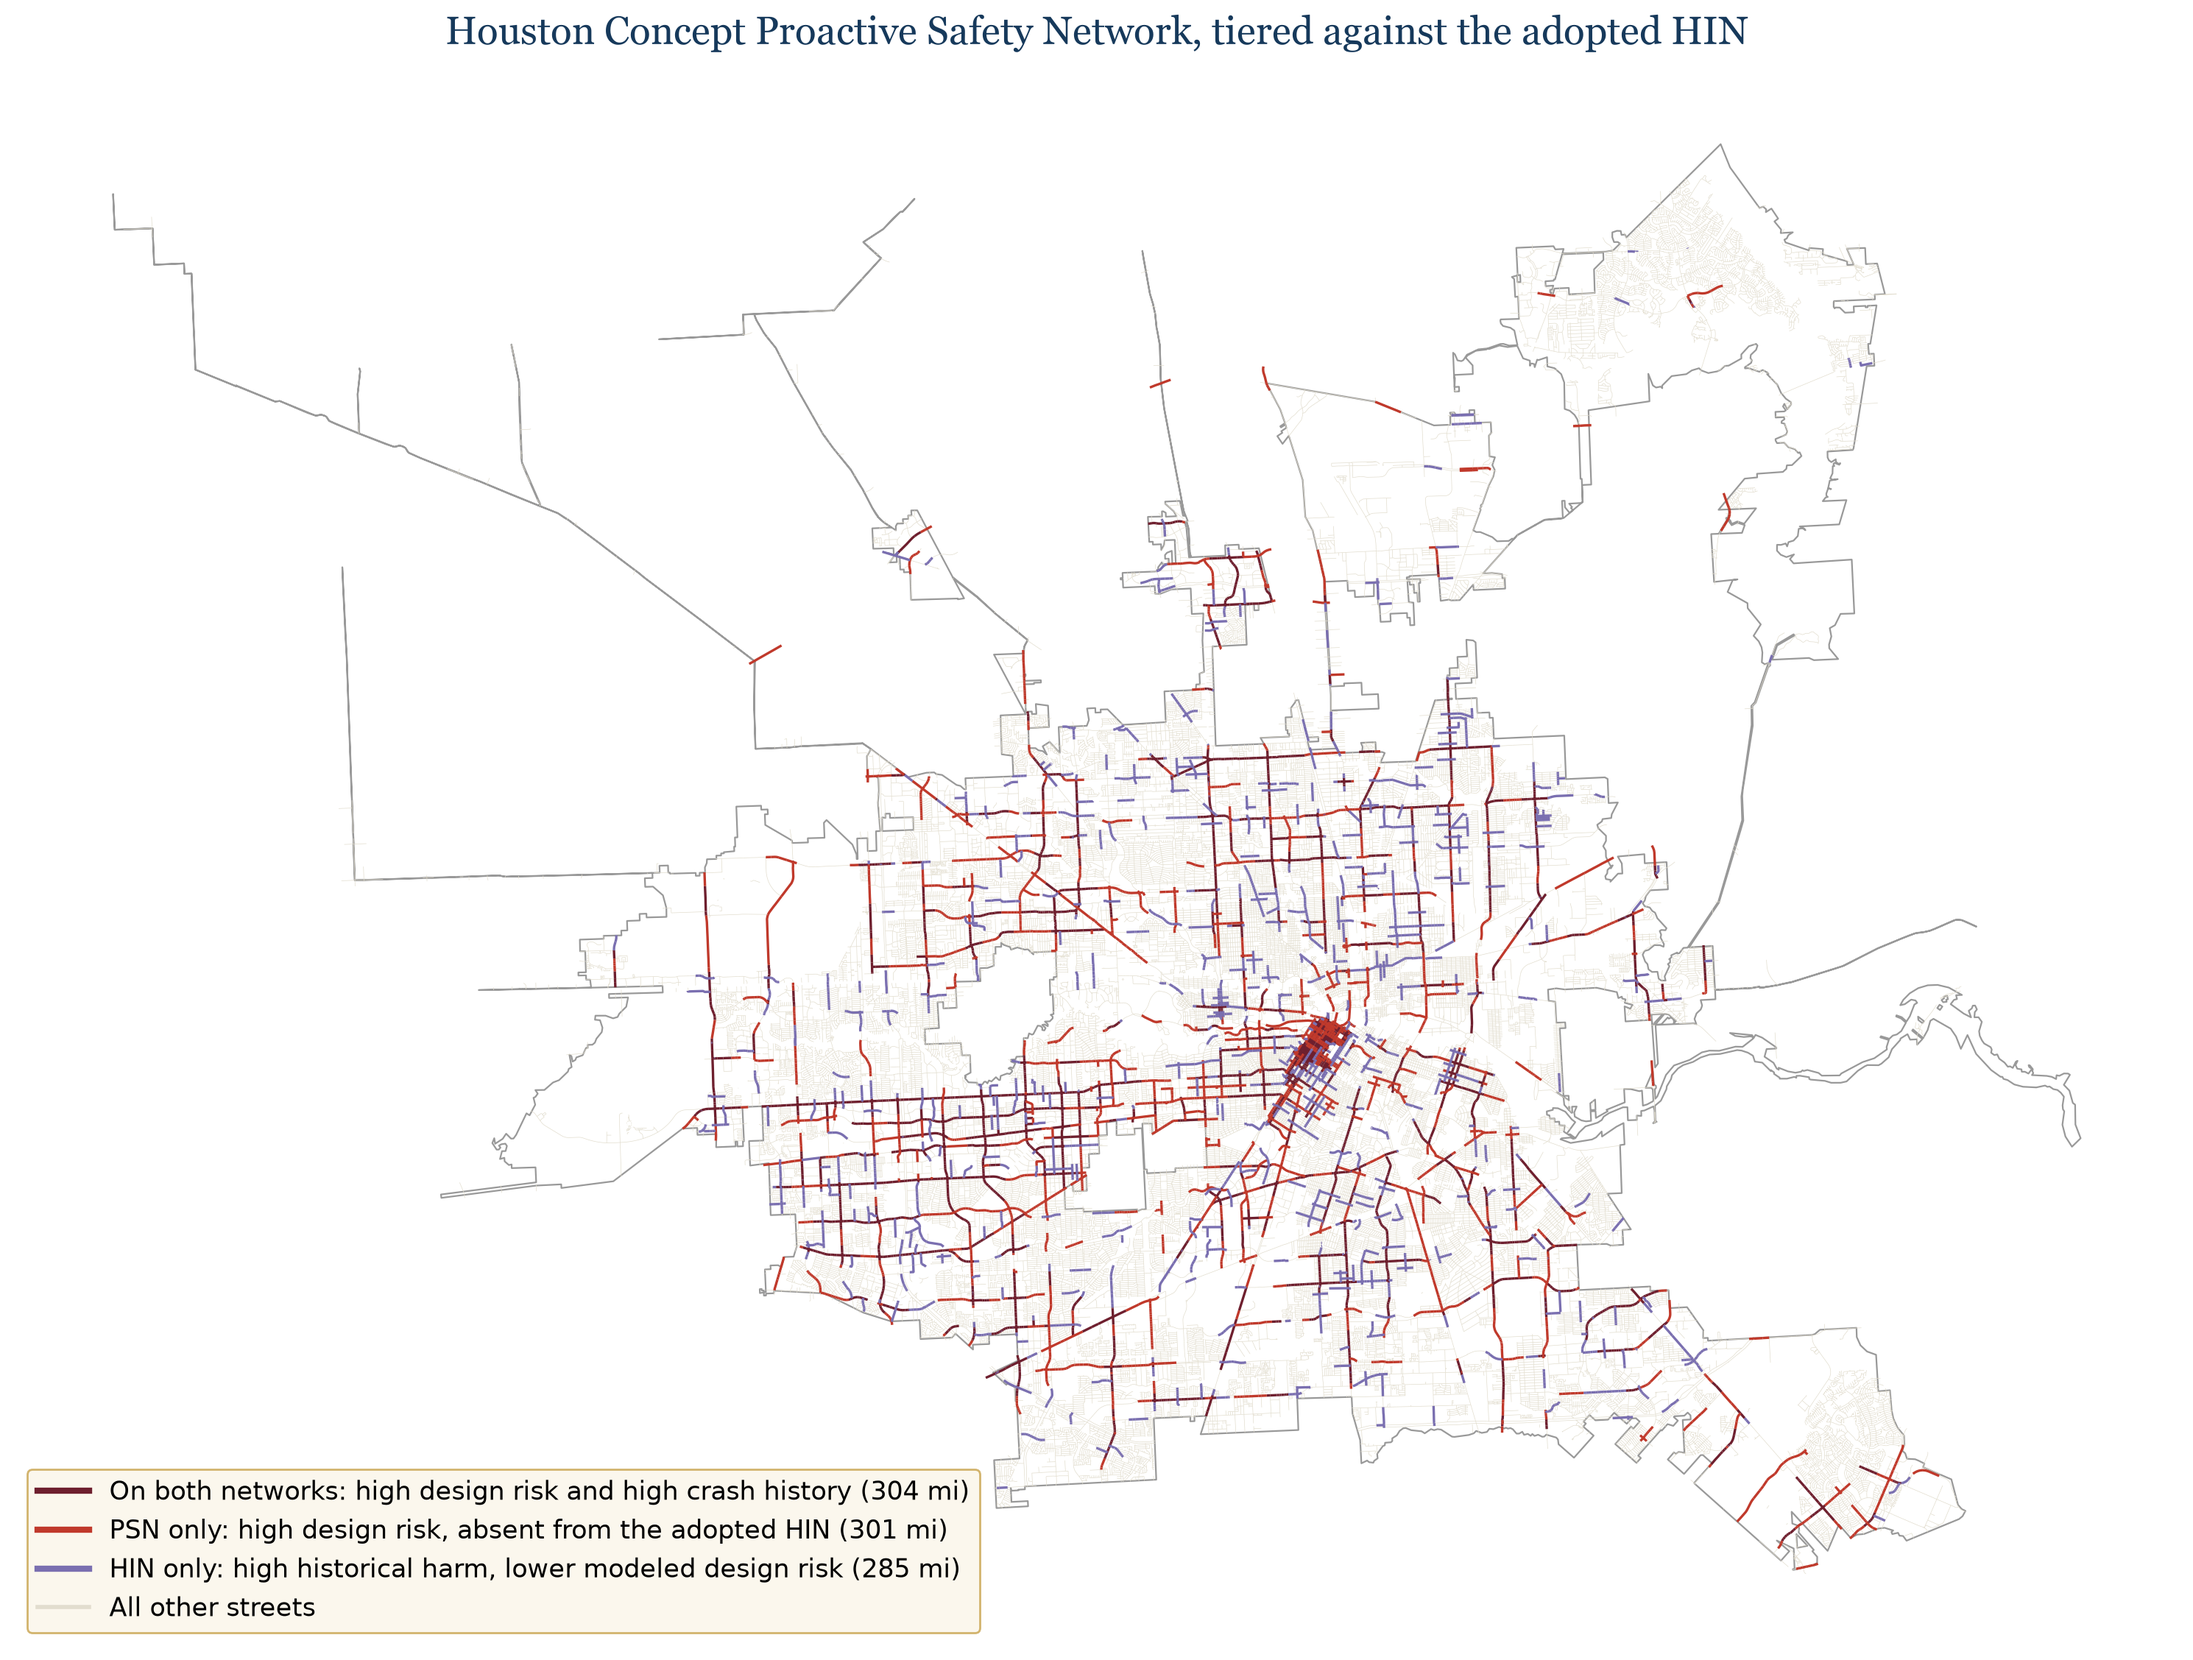
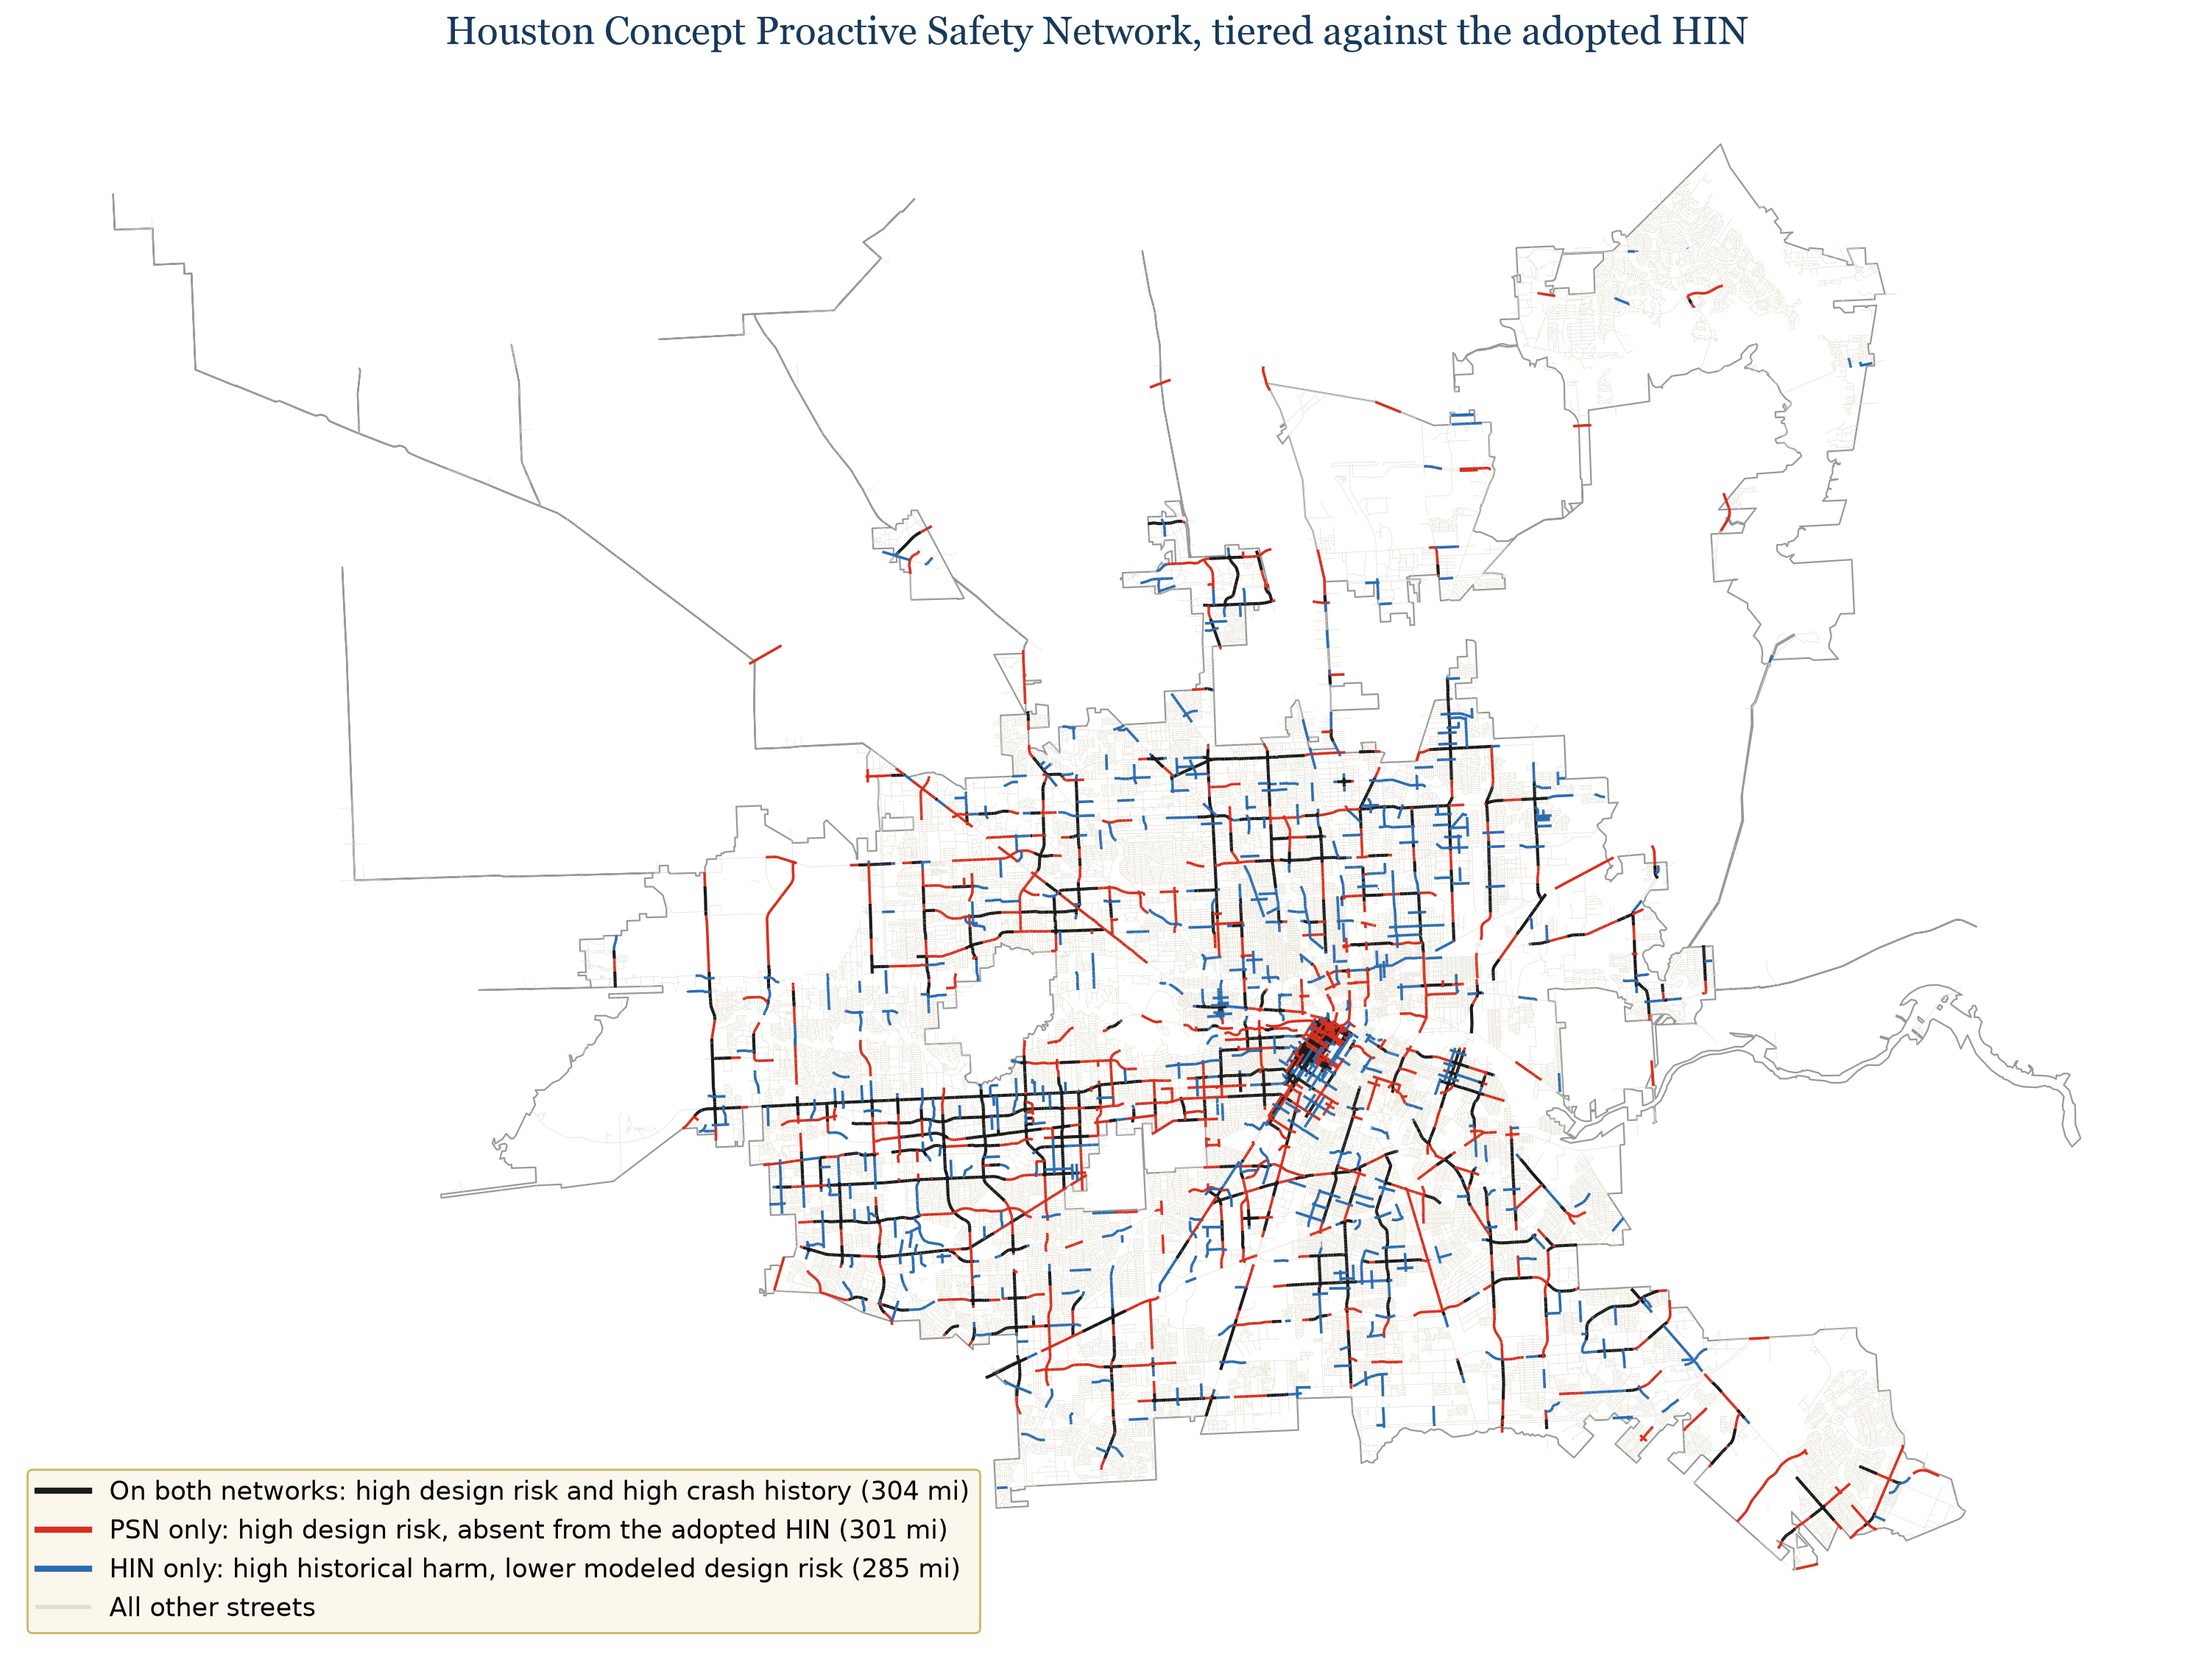
Tiered PSN map: maximum-separation colors (black/red/blue; maroon-red-lilac were indistinguishable at line weight)

diff --git a/src/plot_psn_map.py b/src/plot_psn_map.py
@@ -53,12 +53,12 @@ def main():
 
 def tiered(seg, boundary):
     """Paper Figure 5: the PSN tiered against the adopted HIN."""
-    tiers = [
-        ("psn_and_hin", "#6e1f2e",
+    tiers = [  # maximum-separation trio (review: maroon/red/lilac too close)
+        ("psn_and_hin", "#1A1A1A",
          "On both networks: high design risk and high crash history"),
-        ("psn_only", "#C0392B",
+        ("psn_only", "#D7301F",
          "PSN only: high design risk, absent from the adopted HIN"),
-        ("hin_only", "#7a6fb0",
+        ("hin_only", "#2B6CB0",
          "HIN only: high historical harm, lower modeled design risk"),
     ]
     fig, ax = plt.subplots(figsize=(15, 13), dpi=200)
@@ -68,7 +68,8 @@ def tiered(seg, boundary):
     for key, color, label in tiers:
         sub = seg[seg.psn_tier == key]
         mi = sub.length_ft.sum() / 5280
-        sub.plot(ax=ax, color=color, linewidth=1.2, zorder=2)
+        sub.plot(ax=ax, color=color,
+                 linewidth=1.5 if key == "psn_and_hin" else 1.3, zorder=2)
         handles.append(Line2D([], [], color=color, linewidth=3,
                               label=f"{label} ({mi:,.0f} mi)"))
     handles.append(Line2D([], [], color="#e2ddce", linewidth=2,
